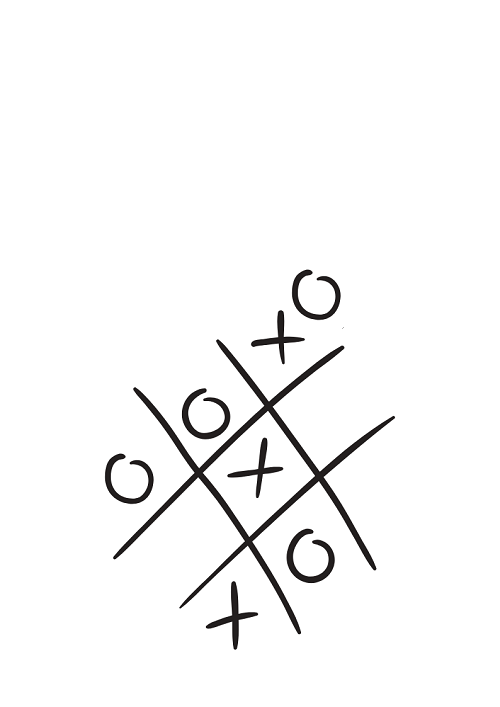
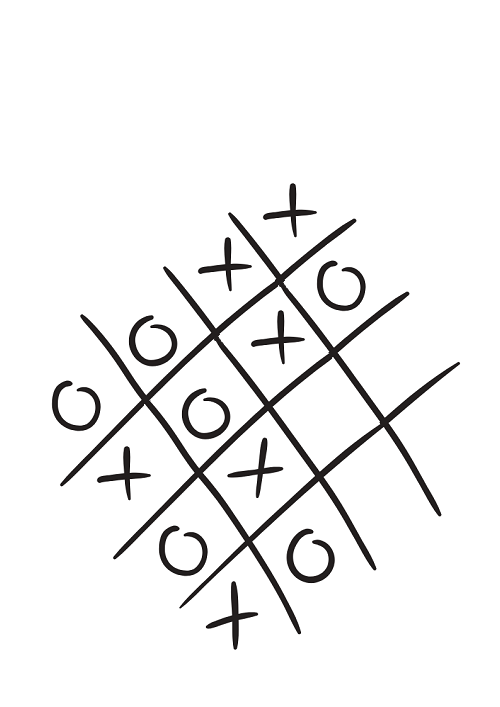
change all files

diff --git a/game_logic.py b/game_logic.py
@@ -36,5 +36,31 @@ Move(3, 1, 3, 2, "X").apply(board)
 for row in board:
     print(" ".join(row))
 
-def get_user_move(board) :
-    #Hi
+
+def user_move(board, move):
+    first_cell = (a1, a1)
+    second_cell = (a2, b2)
+
+    (
+        move(a1, ba, a2, b2, fiest_symbol) if board[a1][b1] == "-" else print("erorr")
+    )  # need try - except
+
+
+def is_valid_move(board, move):
+
+    r1, c1 = move.a1, move.b1
+    r2, c2 = move.a2, move.b2
+
+    # 1. داخل صفحه بودن
+    if not (0 <= r1 < 4 and 0 <= c1 < 4 and 0 <= r2 < 4 and 0 <= c2 < 4):
+        return False
+
+    # 2. خالی بودن خانهها
+    if board[r1][c1] != "-" or board[r2][c2] != "-":
+        return False
+
+    # 3. مجاور بودن (فقط افقی یا عمودی)
+    if abs(r1 - r2) + abs(c1 - c2) != 1:
+        return False
+
+    return True

diff --git a/gui.py b/gui.py
@@ -1,0 +1,23 @@
+import tkinter as tk
+
+
+# CELL_SIZE = 100
+# BOARD_SIZE = 4 * CELL_SIZE
+# BOARD_SIZE = 500 * 707
+
+WIDTH = 500
+HEIGHT = 707
+
+root = tk.Tk()
+root.title("Tic-Tac-Toe vs AI!")
+
+canvas = tk.Canvas(root, width=WIDTH, height=HEIGHT)
+canvas.pack()
+
+cover_img = tk.PhotoImage(file="cover.png")
+canvas.create_image(0, 0, anchor="nw", image=cover_img)
+
+root.mainloop()
+
+
+root.mainloop()
